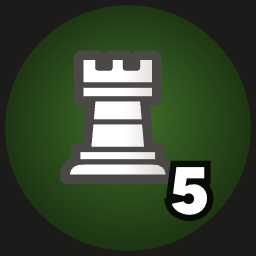
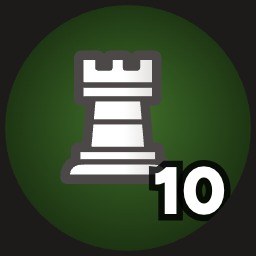
Badges: Holding the Line is reaching turn 10; Clipped Wings is breaking both of the dragon's wings (the wave badges had no waves left)

Changed region(s): [[0.5625, 0.625, 0.9062, 0.875]]

diff --git a/game/main.js b/game/main.js
@@ -3,7 +3,7 @@
 import * as C from './config.js';
 import { legalMoves, inCheck, kingSquare, colorOf, typeOf, parseBoard, findMove, initialPosition } from './chess.js';
 import { movesOf, attacksOf, attackedBy, active, idx } from './rules.js';
-import { attackSquares, GROUP_LABEL, ATTACK_NAME, integrity, kingExposed } from './boss.js';
+import { attackSquares, GROUP_LABEL, ATTACK_NAME, integrity, kingExposed, groupAlive } from './boss.js';
 import { createRenderer } from './render.js';
 import { createFx } from './fx.js';
 import { createNet, stubRoom } from './net.js';
@@ -122,6 +122,8 @@ async function boot() {
     setTimeout(() => el.classList.add('out'), 5200);
     setTimeout(() => el.remove(), 5800);
   }
+  // The wings this run has broken (for the Clipped Wings badge).
+  const wingsBroken = new Set();
   const award = (id) => {
     try {
       ow?.badges?.award?.(id);
@@ -965,9 +967,15 @@ async function boot() {
         fx.shake(0.3);
         break;
       }
-      case 'G':
+      case 'G': {
         if (a[0] !== 'king') ui.toast(`${GROUP_LABEL[a[0]] ?? 'Part'} broken`);
+        if (a[0] === 'lwing' || a[0] === 'rwing') {
+          wingsBroken.add(a[0]);
+          const gone = (g) => wingsBroken.has(g) || (world?.boss && !groupAlive(world.boss, g));
+          if (gone('lwing') && gone('rwing')) award('wave-10');
+        }
         break;
+      }
       case 'y': {
         const [i, p] = a;
         renderer.partLunge(i, p % C.W, Math.floor(p / C.W), now);
@@ -994,6 +1002,8 @@ async function boot() {
         break;
       }
       case 'W':
+        if (a[0] === 1) wingsBroken.clear();
+        if (a[0] >= 10) award('wave-5');
         if (a[0] === 1) {
           setMusic('war');
           tip('turn', 'Your move: every piece can move once');

diff --git a/game/poster.js b/game/poster.js
@@ -229,11 +229,17 @@ function drawBadge(ctx, W, H, id) {
     }],
     'wave-5': ['#3d6b28', '#13240c', () => {
       drawPiece(ctx, 'r', 'w', W * 0.16, H * 0.14, W * 0.6);
-      label('5');
-    }],
-    'wave-10': ['#81b64c', '#1d3310', () => {
-      drawPiece(ctx, 'q', 'w', W * 0.12, H * 0.12, W * 0.64);
       label('10');
+    }],
+    'wave-10': ['#b0472f', '#2a0b06', () => {
+      // Two black rook wings, broken off and falling apart.
+      for (const [sx, rot] of [[-1, -0.55], [1, 0.55]]) {
+        ctx.save();
+        ctx.translate(W * (0.5 + sx * 0.2), H * 0.52);
+        ctx.rotate(rot);
+        drawPiece(ctx, 'r', 'd', -W * 0.24, -H * 0.3, W * 0.48);
+        ctx.restore();
+      }
     }],
     checkmate: ['#d6aa4a', '#3a2a0a', () => {
       ctx.save();
